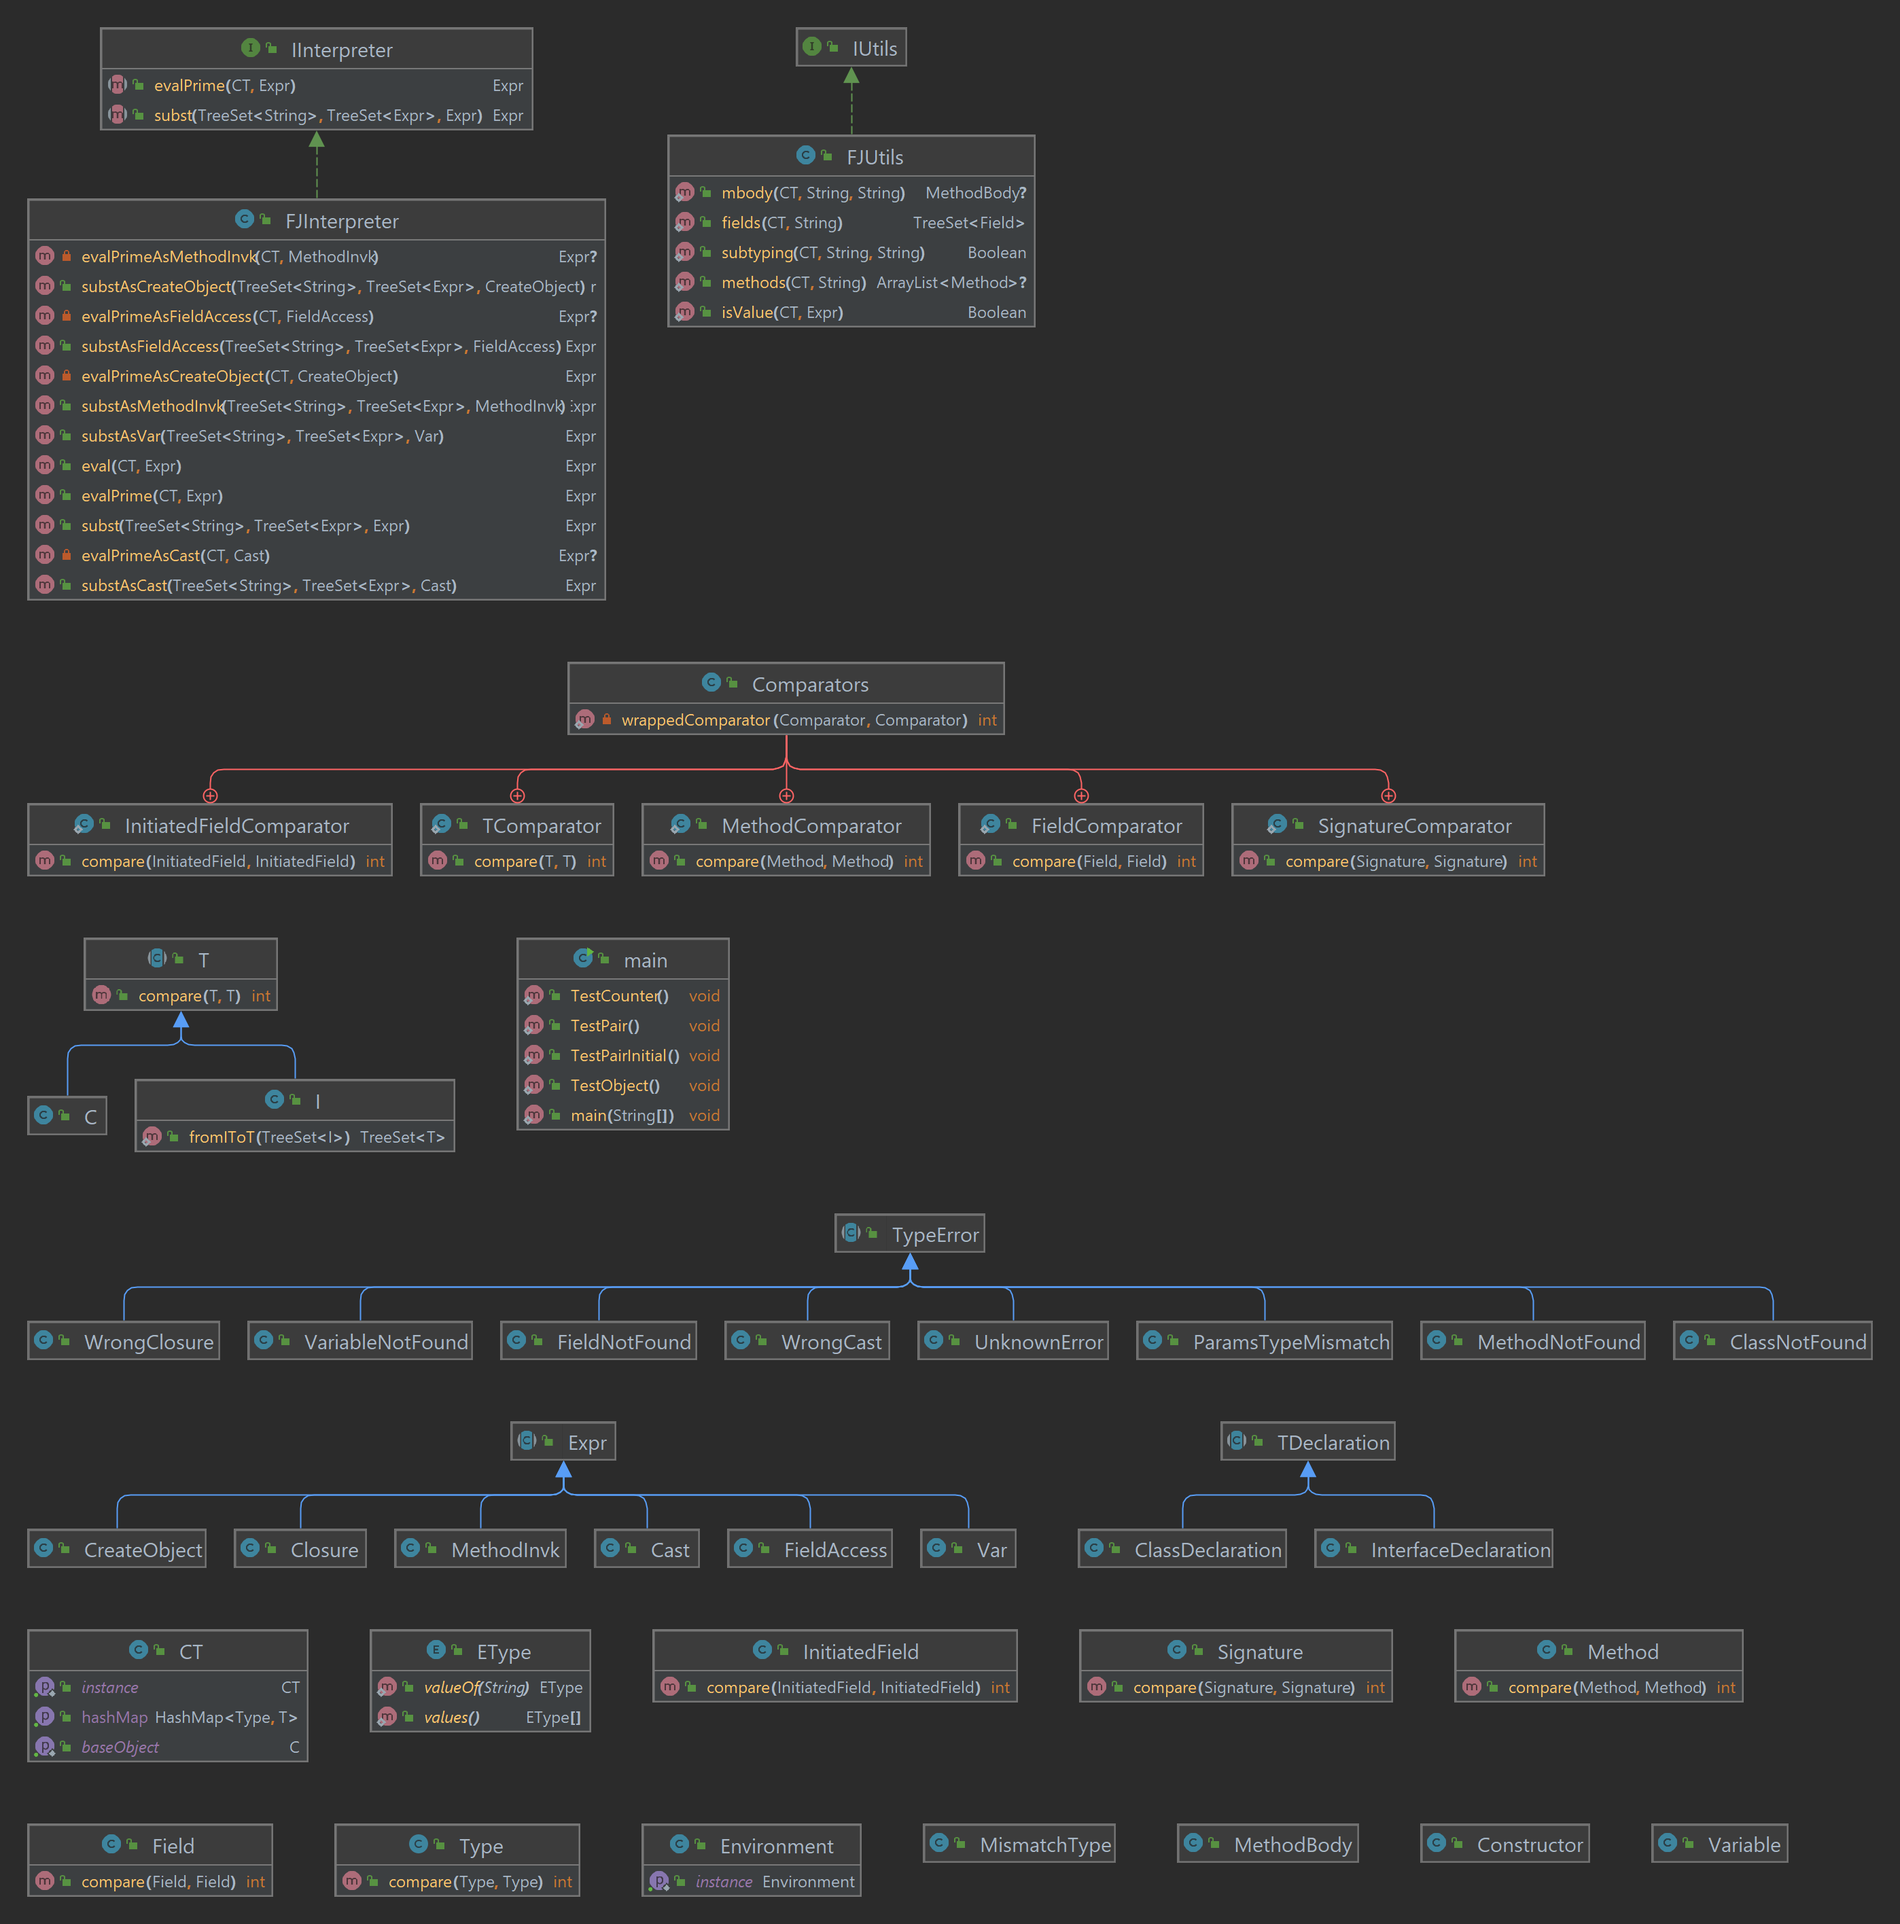
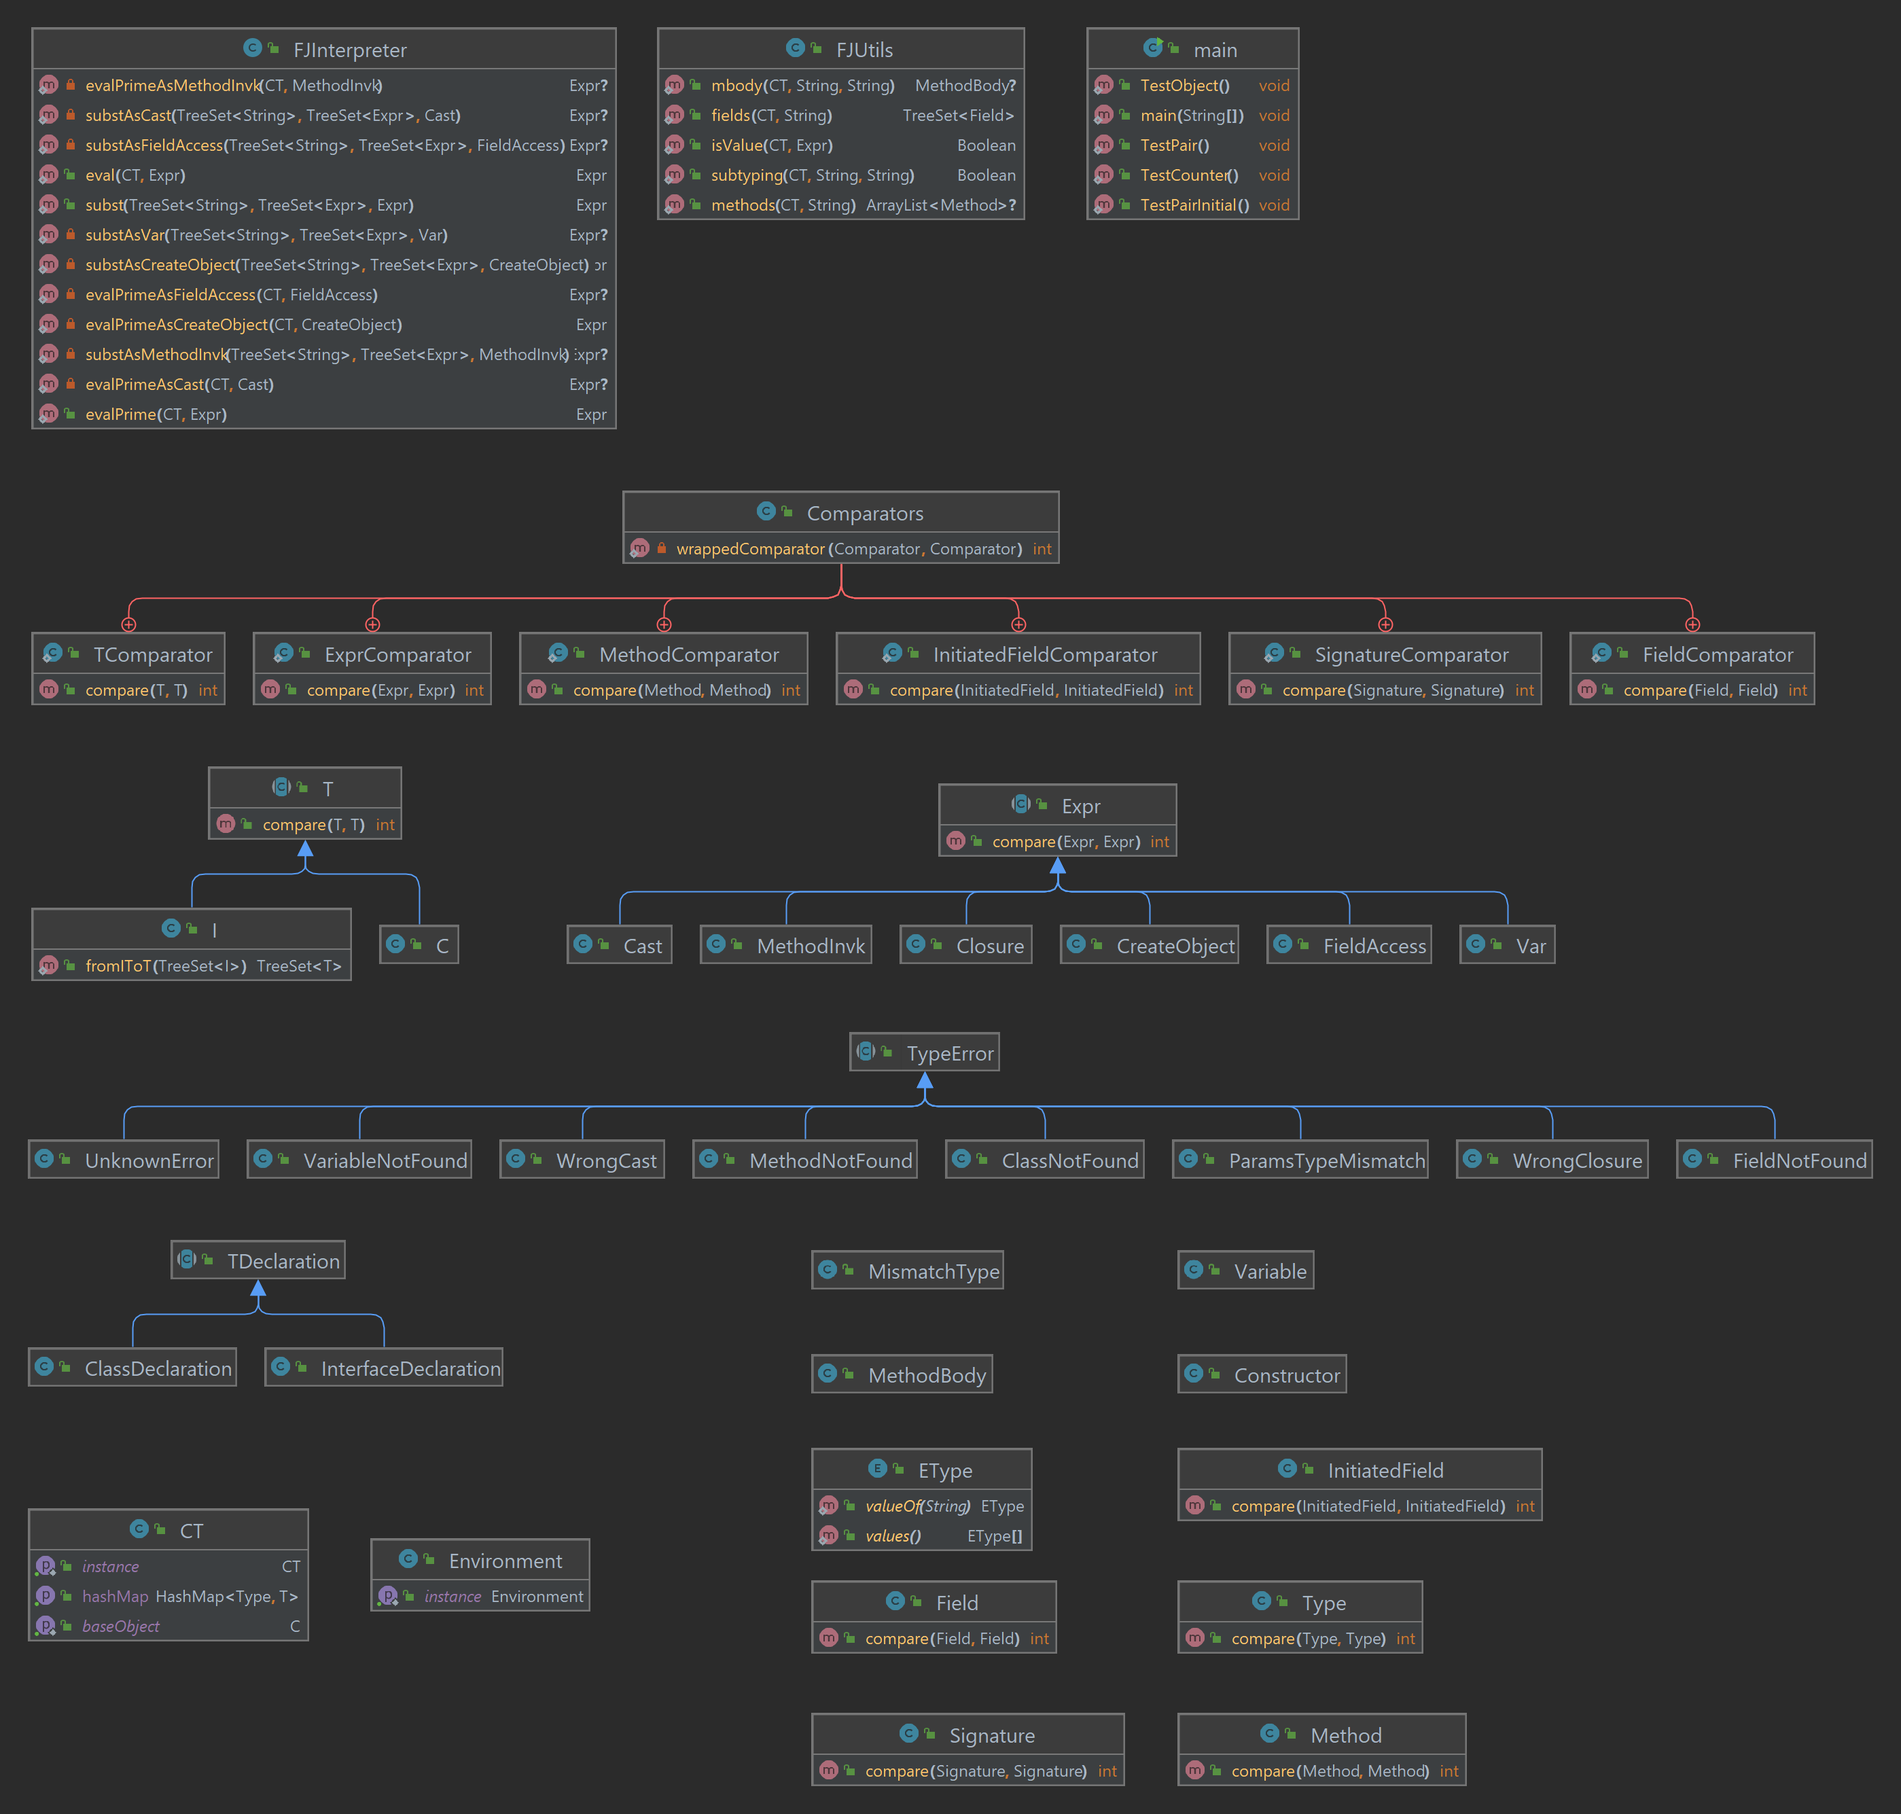
refactor: remove unecessary interface

diff --git a/src/V1/FJInterpreter.java b/src/V1/FJInterpreter.java
@@ -1,6 +1,7 @@
 package V1;
 
 import Parser.DefinitionP.CT;
+import Parser.DefinitionP.Comparators;
 import Parser.DefinitionP.Field;
 import Parser.DefinitionP.MethodBody;
 import Parser.ExpressionP.*;
@@ -8,7 +9,7 @@ import Utils.FJUtils;
 
 import java.util.TreeSet;
 
-public class FJInterpreter implements IInterpreter {
+public class FJInterpreter {
     //CT = Map de type String (pour le nom de la classe), Expression (le type Expr en haskell)
 
     /**
@@ -17,8 +18,7 @@ public class FJInterpreter implements IInterpreter {
      * Params : Class table, Expression
      * Returns : An expression after processing one reduction step
      */
-    @Override
-    public Expr evalPrime(CT dictionnary, Expr expression) {
+    public static Expr evalPrime(CT dictionnary, Expr expression) {
         // eval' ct (CreateObject c p) = -- RC-New-Arg
         if (expression instanceof CreateObject createObject) {
             return evalPrimeAsCreateObject(dictionnary, createObject);
@@ -59,8 +59,8 @@ public class FJInterpreter implements IInterpreter {
      *
      * @see CreateObject
      */
-    private Expr evalPrimeAsCreateObject(CT dictionnary, CreateObject createObject) {
-        TreeSet<Expr> p2 = new TreeSet<>();
+    private static Expr evalPrimeAsCreateObject(CT dictionnary, CreateObject createObject) {
+        TreeSet<Expr> p2 = new TreeSet<>(new Comparators.ExprComparator());
 
         /*let p' = Data.List.map (\x -> case (eval' ct x) of Just x' -> x') p
             in Just (CreateObject c p')*/
@@ -80,7 +80,7 @@ public class FJInterpreter implements IInterpreter {
      *
      * @see FieldAccess
      */
-    private Expr evalPrimeAsFieldAccess(CT dictionnary, FieldAccess fieldAccess) {
+    private static Expr evalPrimeAsFieldAccess(CT dictionnary, FieldAccess fieldAccess) {
         //if (isValue ct e) then -- R-Field
         if (FJUtils.isValue(dictionnary, fieldAccess.ownerCLass)) {
             //case e of      (CreateObject c p) ->
@@ -128,7 +128,7 @@ public class FJInterpreter implements IInterpreter {
      *
      * @see MethodInvk
      */
-    private Expr evalPrimeAsMethodInvk(CT dictionnary, MethodInvk methodInvk) {
+    private static Expr evalPrimeAsMethodInvk(CT dictionnary, MethodInvk methodInvk) {
         //if (isValue ct e) then -- expression existe dans le dico
         if (FJUtils.isValue(dictionnary, methodInvk.parent)) {
             //if (Data.List.all (isValue ct) p) then
@@ -159,7 +159,6 @@ public class FJInterpreter implements IInterpreter {
                         return subst(copyNameFields, copyParams, methodBody.body);
                     }
                 } else if (methodInvk.parent instanceof Cast castParent && ((Cast) methodInvk.parent).expr instanceof Closure) { //(Cast i (Closure cp exp)) ->
-                    //TODO
                     Closure closureParent = (Closure) castParent.expr;
 
                     //case (mbody ct m i) of    Just (fpn, e')
@@ -182,7 +181,7 @@ public class FJInterpreter implements IInterpreter {
             } else {
                 // RC-Invk-Arg
                 //let p' = Data.List.map (\x -> case (eval' ct x) of Just x' -> x') p
-                TreeSet<Expr> pPrime = new TreeSet<>();
+                TreeSet<Expr> pPrime = new TreeSet<>(new Comparators.ExprComparator());
 
                 //param = x
                 Expr result;
@@ -213,7 +212,7 @@ public class FJInterpreter implements IInterpreter {
      *
      * @see Cast
      */
-    private Expr evalPrimeAsCast(CT dictionnary, Cast cast) {
+    private static Expr evalPrimeAsCast(CT dictionnary, Cast cast) {
         //cast.f = t, cast.expr = e
         //if (isValue ct e)
         if (FJUtils.isValue(dictionnary, cast.expr)) {
@@ -250,7 +249,7 @@ public class FJInterpreter implements IInterpreter {
      * -- Params: Class table, Expression.
      * -- Returns: A value after all the reduction steps.
      */
-    public Expr eval(CT dictionnary, Expr expr) {
+    public static Expr eval(CT dictionnary, Expr expr) {
         if (FJUtils.isValue(dictionnary, expr)) {
             return expr;
         } else {
@@ -276,9 +275,7 @@ public class FJInterpreter implements IInterpreter {
      * @param bodyExpression Method body expression
      * @return
      */
-    //TODO
-    @Override
-    public Expr subst(TreeSet<String> paramNames, TreeSet<Expr> params, Expr bodyExpression) {
+    public static Expr subst(TreeSet<String> paramNames, TreeSet<Expr> params, Expr bodyExpression) {
         //subst p v (Var x) : p = paramNames, v = params, (Var x) = bodyExpression
         if (bodyExpression instanceof Var var) {
             return substAsVar(paramNames, params, var);
@@ -318,7 +315,7 @@ public class FJInterpreter implements IInterpreter {
      *
      * @see Var
      */
-    public Expr substAsVar(TreeSet<String> paramNames, TreeSet<Expr> params, Var var) {
+    private static Expr substAsVar(TreeSet<String> paramNames, TreeSet<Expr> params, Var var) {
         //subst p v (Var x) : p = paramNames, v = params, (Var x) = bodyExpression
 
         //case (Data.List.elemIndex x p) of   Just idx
@@ -347,7 +344,7 @@ public class FJInterpreter implements IInterpreter {
      *
      * @see FieldAccess
      */
-    public Expr substAsFieldAccess(TreeSet<String> paramNames, TreeSet<Expr> params, FieldAccess fieldAccess) {
+    private static Expr substAsFieldAccess(TreeSet<String> paramNames, TreeSet<Expr> params, FieldAccess fieldAccess) {
         //subst p v (FieldAccess e f) : p = paramNames, v = params, e = fieldAccess.ownerCLass, f = fieldAccess.name
 
         //case (subst p v e) of   Just e'
@@ -365,7 +362,7 @@ public class FJInterpreter implements IInterpreter {
      *
      * @see MethodInvk
      */
-    public Expr substAsMethodInvk(TreeSet<String> paramNames, TreeSet<Expr> params, MethodInvk methodInvk) {
+    private static Expr substAsMethodInvk(TreeSet<String> paramNames, TreeSet<Expr> params, MethodInvk methodInvk) {
         //subst p v (MethodInvk e n ap): p = paramNames, v = params, e = bodyExpression.parent, n = methodInvk.name, ap = methodInvk.params
 
         // case (subst p v e) of    Just e' -> Just (MethodInvk e' n ap')
@@ -374,7 +371,7 @@ public class FJInterpreter implements IInterpreter {
 
         if (ePrime != null) {
             //let ap' = Data.List.map (\x -> case (subst p v x) of Just x' -> x') ap
-            TreeSet<Expr> apPrime = new TreeSet<>();
+            TreeSet<Expr> apPrime = new TreeSet<>(new Comparators.ExprComparator());
 
             Expr substResult;
             for (Expr param : methodInvk.params) {
@@ -394,11 +391,11 @@ public class FJInterpreter implements IInterpreter {
      *
      * @see CreateObject
      */
-    public Expr substAsCreateObject(TreeSet<String> paramNames, TreeSet<Expr> params, CreateObject createObject) {
+    private static Expr substAsCreateObject(TreeSet<String> paramNames, TreeSet<Expr> params, CreateObject createObject) {
         //subst p v (CreateObject c ap): p = paramNames, v = params, c = createObject.name, ap = createObject.params
 
         //let ap' = Data.List.map (\x -> case (subst p v x) of Just x' -> x') ap
-        TreeSet<Expr> apPrime = new TreeSet<>();
+        TreeSet<Expr> apPrime = new TreeSet<>(new Comparators.ExprComparator());
 
         Expr substResult;
         for (Expr param : createObject.params) {
@@ -415,7 +412,7 @@ public class FJInterpreter implements IInterpreter {
      *
      * @see Cast
      */
-    public Expr substAsCast(TreeSet<String> paramNames, TreeSet<Expr> params, Cast cast) {
+    private static Expr substAsCast(TreeSet<String> paramNames, TreeSet<Expr> params, Cast cast) {
         //subst p v (Cast c e): p = paramNames, v = params, c = cast.f, e = cast.expr
 
         //case (subst p v e) of     Just e' -> Just (Cast c e')

diff --git a/src/Utils/FJUtils.java b/src/Utils/FJUtils.java
@@ -9,7 +9,7 @@ import Parser.ExpressionP.Expr;
 import java.util.ArrayList;
 import java.util.TreeSet;
 
-public class FJUtils implements IUtils {
+public class FJUtils {
     //public static class subtyping(CT table, Class a, Class b){ }
     //public static class fields(CT table, Class a, Class b){ }
     /*public static class absmethods(CT table, Class a, Class b){ }
